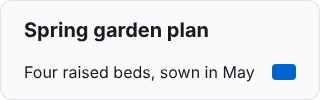
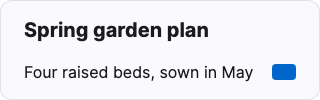
fix(slice): verify evidence provenance before capture

Changed region(s): [[0.0625, 0.21, 0.6562, 0.42], [0.0938, 0.66, 0.4688, 0.78], [0.5, 0.66, 0.8125, 0.81]]

diff --git a/tests/owner.rs b/tests/owner.rs
@@ -1131,8 +1131,8 @@ fn three_worktrees_share_one_mirror_and_one_edit_pulls_once() {
     // errors anywhere.
     let readers: Vec<_> = cwds
         .iter()
-        .cloned()
         .map(|cwd| {
+            let cwd = cwd.clone();
             std::thread::spawn(move || {
                 for _ in 0..5 {
                     let out = common::command()

diff --git a/examples/slice/README.md b/examples/slice/README.md
@@ -37,7 +37,10 @@ PLAYWRIGHT_BROWSERS_PATH=/opt/pw-browsers examples/slice/run.sh --test
       `figmog tokens export --out app/src/tokens.css`.
    2. **Spec.** `figmog spec 1:1 > spec/card.spec.json`.
    3. Checks that the stand-in render is pinned to the mirrored version
-      (`figma/card-render.json` `file.version` = `figmog status` version).
+      (`figma/card-render.json` `file.version` = `figmog status` version),
+      and that the synthetic file, stand-in HTML and both PNGs match their
+      recorded SHA-256 hashes. Editing an input without changing the file
+      version still requires re-rendering the stand-in.
    4. **Builds.** `vite build` of three app trees: **before** (a temporary
       copy of the app with `baseline/Card.jsx` swapped in for
       `src/Card.jsx`), **after** (the app as committed) and **broken**
@@ -51,10 +54,15 @@ PLAYWRIGHT_BROWSERS_PATH=/opt/pw-browsers examples/slice/run.sh --test
 4. With `--test`: `npm test` in the app.
 
 The temporary store, app trees and captures are deleted afterwards. The run
-is deterministic: running it twice gives byte-identical outputs.
+is deterministic within the same OS, installed fonts and browser environment:
+running it twice there gives byte-identical outputs. A different environment
+can change text rasterisation; regenerate the stand-in and evidence together
+when moving between environments.
 
 `node scripts/slice.mjs standin` re-renders the stand-in PNGs and
 `figma/card-render.json`; `run.sh` never does.
+Run it once to upgrade older stand-in records that lack the file and HTML
+hashes; the evidence command refuses such records.
 
 ## Layout
 
@@ -105,6 +113,8 @@ which `tokens export` skips, so `Inter, sans-serif` is written directly.
   version; the token snapshot's file SHA-256 and figmog digest; the token
   CSS and spec digests; and per run and viewport the scores and the SHA-256
   of every image.
+- Build identity is sampled after the token CSS and spec are generated, so
+  changed generated inputs are included in the `dirty` flag.
 - Score: advisory, `100 * (1 - mismatched / (W*H))` against the Figma
   render (see `packages/react/README.md`); never a pass/fail gate.
 - Captured URLs are recorded as `http://127.0.0.1:<port>/`: the port is
